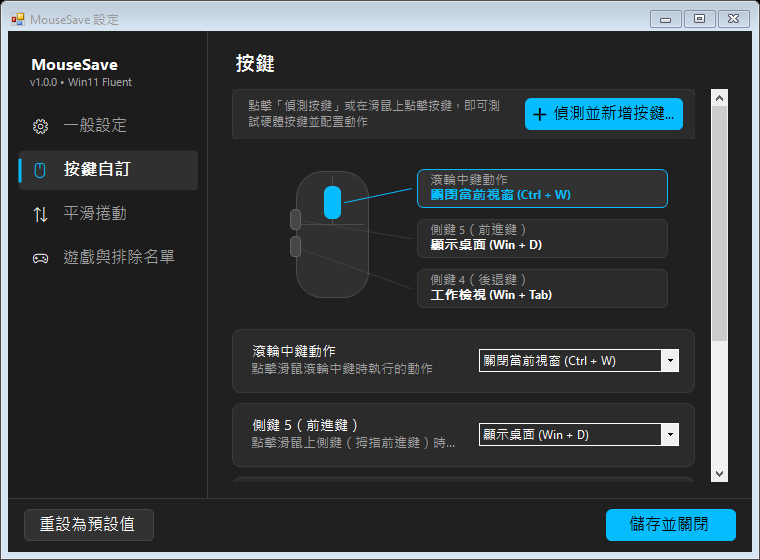
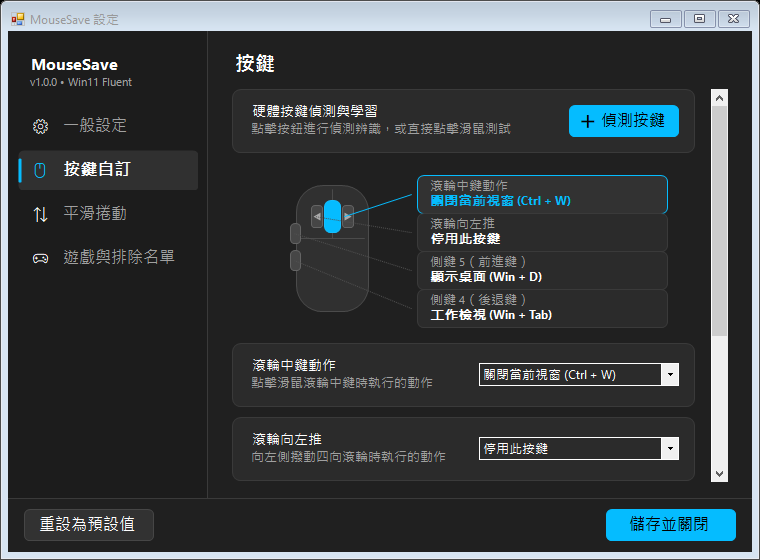
fix(ui): refine button page layout, responsive detection bar and grouped card alignment

diff --git a/windows/src/SettingsForm.cs b/windows/src/SettingsForm.cs
@@ -337,49 +337,28 @@ namespace MouseSave {
         private void BuildButtonsPage(Panel p) {
             int y = 0;
             int cardGap = Theme.Scale(10);
-            int cardW = p.Width - Theme.Scale(16);
+            int cardW = p.ClientSize.Width - Theme.Scale(16);
 
-            // 1. Detection Bar & Hardware Help Card
-            Panel headerCard = new Panel {
-                Location = new Point(0, y),
-                Width = cardW,
-                Height = Theme.Scale(50),
-                Anchor = AnchorStyles.Top | AnchorStyles.Left | AnchorStyles.Right,
-                BackColor = Theme.CardBackground
-            };
-            headerCard.Paint += delegate(object s, PaintEventArgs e) {
-                e.Graphics.SmoothingMode = SmoothingMode.AntiAlias;
-                using (GraphicsPath path = Theme.CreateRoundedRectangle(headerCard.ClientRectangle, Theme.Scale(8)))
-                using (Pen pen = new Pen(Theme.CardBorder, 1f)) {
-                    e.Graphics.DrawPath(pen, path);
-                }
-            };
-
-            Label lblHelp = new Label {
-                Text = Localization.Get("detectTip"),
-                Location = new Point(Theme.Scale(14), Theme.Scale(8)),
-                Size = new Size(cardW - Theme.Scale(190), Theme.Scale(34)),
-                Font = Theme.GetTextFont(8.8f, FontStyle.Regular),
-                ForeColor = Theme.TextSecondary,
-                TextAlign = ContentAlignment.MiddleLeft,
-                Anchor = AnchorStyles.Top | AnchorStyles.Left | AnchorStyles.Right
-            };
-            headerCard.Controls.Add(lblHelp);
-
+            // 1. Detection Bar (Standard FluentCard with responsive RightControl)
             _btnDetectButton = new FluentButton {
                 Text = Localization.Get("detectButton"),
-                Location = new Point(cardW - Theme.Scale(170), Theme.Scale(9)),
-                Size = new Size(Theme.Scale(158), Theme.Scale(32)),
-                Anchor = AnchorStyles.Top | AnchorStyles.Right,
+                Size = new Size(Theme.Scale(110), Theme.Scale(32)),
                 IsAccent = true
             };
             _btnDetectButton.Click += delegate {
                 StartButtonDetection();
             };
-            headerCard.Controls.Add(_btnDetectButton);
 
-            p.Controls.Add(headerCard);
-            y += headerCard.Height + cardGap;
+            FluentCard cardDetect = new FluentCard {
+                Location = new Point(0, y),
+                Width = cardW,
+                Anchor = AnchorStyles.Top | AnchorStyles.Left | AnchorStyles.Right,
+                Title = Localization.Get("detectTitle"),
+                Description = Localization.Get("detectTip"),
+                RightControl = _btnDetectButton
+            };
+            p.Controls.Add(cardDetect);
+            y += cardDetect.Height + cardGap;
 
             // 2. Visualizer diagram
             _mouseVisualizer = new MouseVisualizer {
@@ -393,7 +372,7 @@ namespace MouseSave {
             p.Controls.Add(_mouseVisualizer);
             y += _mouseVisualizer.Height + cardGap;
 
-            // 3. Middle Click
+            // 3. Middle Click (Wheel Group)
             _cboMiddleClick = CreateActionComboBox();
             _cboMiddleClick.SelectedIndexChanged += delegate {
                 _mouseVisualizer.MiddleActionText = _cboMiddleClick.Text;
@@ -409,39 +388,7 @@ namespace MouseSave {
             p.Controls.Add(_cardMiddle);
             y += _cardMiddle.Height + cardGap;
 
-            // 4. Side Button 5
-            _cboButton5 = CreateActionComboBox();
-            _cboButton5.SelectedIndexChanged += delegate {
-                _mouseVisualizer.Button5ActionText = _cboButton5.Text;
-            };
-            _cardBtn5 = new FluentCard {
-                Location = new Point(0, y),
-                Width = cardW,
-                Anchor = AnchorStyles.Top | AnchorStyles.Left | AnchorStyles.Right,
-                Title = Localization.Get("button5Action"),
-                Description = Localization.Get("descButton5"),
-                RightControl = _cboButton5
-            };
-            p.Controls.Add(_cardBtn5);
-            y += _cardBtn5.Height + cardGap;
-
-            // 5. Side Button 4
-            _cboButton4 = CreateActionComboBox();
-            _cboButton4.SelectedIndexChanged += delegate {
-                _mouseVisualizer.Button4ActionText = _cboButton4.Text;
-            };
-            _cardBtn4 = new FluentCard {
-                Location = new Point(0, y),
-                Width = cardW,
-                Anchor = AnchorStyles.Top | AnchorStyles.Left | AnchorStyles.Right,
-                Title = Localization.Get("button4Action"),
-                Description = Localization.Get("descButton4"),
-                RightControl = _cboButton4
-            };
-            p.Controls.Add(_cardBtn4);
-            y += _cardBtn4.Height + cardGap;
-
-            // 6. Tilt Wheel Left
+            // 4. Tilt Wheel Left (Wheel Group)
             _cboTiltLeft = CreateActionComboBox();
             _cboTiltLeft.SelectedIndexChanged += delegate {
                 _mouseVisualizer.TiltLeftActionText = _cboTiltLeft.Text;
@@ -457,7 +404,7 @@ namespace MouseSave {
             p.Controls.Add(_cardTiltLeft);
             y += _cardTiltLeft.Height + cardGap;
 
-            // 7. Tilt Wheel Right
+            // 5. Tilt Wheel Right (Wheel Group)
             _cboTiltRight = CreateActionComboBox();
             _cboTiltRight.SelectedIndexChanged += delegate {
                 _mouseVisualizer.TiltRightActionText = _cboTiltRight.Text;
@@ -472,6 +419,38 @@ namespace MouseSave {
             };
             p.Controls.Add(_cardTiltRight);
             y += _cardTiltRight.Height + cardGap;
+
+            // 6. Side Button 5 (Thumb Group - Forward)
+            _cboButton5 = CreateActionComboBox();
+            _cboButton5.SelectedIndexChanged += delegate {
+                _mouseVisualizer.Button5ActionText = _cboButton5.Text;
+            };
+            _cardBtn5 = new FluentCard {
+                Location = new Point(0, y),
+                Width = cardW,
+                Anchor = AnchorStyles.Top | AnchorStyles.Left | AnchorStyles.Right,
+                Title = Localization.Get("button5Action"),
+                Description = Localization.Get("descButton5"),
+                RightControl = _cboButton5
+            };
+            p.Controls.Add(_cardBtn5);
+            y += _cardBtn5.Height + cardGap;
+
+            // 7. Side Button 4 (Thumb Group - Back)
+            _cboButton4 = CreateActionComboBox();
+            _cboButton4.SelectedIndexChanged += delegate {
+                _mouseVisualizer.Button4ActionText = _cboButton4.Text;
+            };
+            _cardBtn4 = new FluentCard {
+                Location = new Point(0, y),
+                Width = cardW,
+                Anchor = AnchorStyles.Top | AnchorStyles.Left | AnchorStyles.Right,
+                Title = Localization.Get("button4Action"),
+                Description = Localization.Get("descButton4"),
+                RightControl = _cboButton4
+            };
+            p.Controls.Add(_cardBtn4);
+            y += _cardBtn4.Height + cardGap;
         }
 
         private void StartButtonDetection() {
@@ -991,6 +970,7 @@ namespace MouseSave {
 
             _btnReset.Text = Localization.Get("reset");
             _btnSave.Text = Localization.Get("save");
+            if (_btnDetectButton != null) _btnDetectButton.Text = Localization.Get("detectButton");
 
             SwitchPage(_selectedPageIndex);
             PopulateActionCombos();

diff --git a/windows/src/Controls/MouseVisualizer.cs b/windows/src/Controls/MouseVisualizer.cs
@@ -108,9 +108,17 @@ namespace MouseSave.Controls {
             int cx = Theme.Scale(100);
             int cy = Theme.Scale(85);
 
-            // Wheel area: cx-10 to cx+10, cy-50 to cy-15
-            Rectangle wheelRect = new Rectangle(cx - Theme.Scale(10), cy - Theme.Scale(50), Theme.Scale(20), Theme.Scale(36));
+            // Wheel area: cx-8 to cx+8, cy-48 to cy-16
+            Rectangle wheelRect = new Rectangle(cx - Theme.Scale(8), cy - Theme.Scale(48), Theme.Scale(16), Theme.Scale(32));
             if (wheelRect.Contains(pt)) return "middle";
+
+            // Tilt Left area (Left of wheel)
+            Rectangle tiltLeftRect = new Rectangle(cx - Theme.Scale(21), cy - Theme.Scale(43), Theme.Scale(11), Theme.Scale(22));
+            if (tiltLeftRect.Contains(pt)) return "tiltLeft";
+
+            // Tilt Right area (Right of wheel)
+            Rectangle tiltRightRect = new Rectangle(cx + Theme.Scale(10), cy - Theme.Scale(43), Theme.Scale(11), Theme.Scale(22));
+            if (tiltRightRect.Contains(pt)) return "tiltRight";
 
             // Side button 5 (Forward, upper thumb): cx-46 to cx-32, cy-25 to cy-2
             Rectangle btn5Rect = new Rectangle(cx - Theme.Scale(46), cy - Theme.Scale(25), Theme.Scale(18), Theme.Scale(22));
@@ -159,20 +167,52 @@ namespace MouseSave.Controls {
             Rectangle wheelRect = new Rectangle(cx - Theme.Scale(8), cy - Theme.Scale(48), Theme.Scale(16), Theme.Scale(32));
             DrawInteractiveButton(g, wheelRect, "middle", Theme.Scale(6));
 
-            // 2. Side Button 5 (Forward)
+            // 2. Tilt Left & Tilt Right buttons / arrows beside the wheel
+            Rectangle tiltLeftRect = new Rectangle(cx - Theme.Scale(21), cy - Theme.Scale(43), Theme.Scale(11), Theme.Scale(22));
+            DrawInteractiveButton(g, tiltLeftRect, "tiltLeft", Theme.Scale(3));
+            DrawTiltArrow(g, tiltLeftRect, true, _selectedButton == "tiltLeft" || _pulsingButton == "tiltLeft");
+
+            Rectangle tiltRightRect = new Rectangle(cx + Theme.Scale(10), cy - Theme.Scale(43), Theme.Scale(11), Theme.Scale(22));
+            DrawInteractiveButton(g, tiltRightRect, "tiltRight", Theme.Scale(3));
+            DrawTiltArrow(g, tiltRightRect, false, _selectedButton == "tiltRight" || _pulsingButton == "tiltRight");
+
+            // 3. Side Button 5 (Forward)
             Rectangle btn5Rect = new Rectangle(cx - mw / 2 - Theme.Scale(6), cy - Theme.Scale(25), Theme.Scale(10), Theme.Scale(20));
             DrawInteractiveButton(g, btn5Rect, "button5", Theme.Scale(4));
 
-            // 3. Side Button 4 (Back)
+            // 4. Side Button 4 (Back)
             Rectangle btn4Rect = new Rectangle(cx - mw / 2 - Theme.Scale(6), cy + Theme.Scale(2), Theme.Scale(10), Theme.Scale(20));
             DrawInteractiveButton(g, btn4Rect, "button4", Theme.Scale(4));
 
             // Leader lines and info cards on the right side
             int labelLeft = Theme.Scale(185);
 
-            DrawIndicatorCard(g, labelLeft, Theme.Scale(20), "middle", Localization.Get("middleClickAction"), _middleActionText, wheelRect.Right, wheelRect.Top + wheelRect.Height / 2);
-            DrawIndicatorCard(g, labelLeft, Theme.Scale(70), "button5", Localization.Get("button5Action"), _button5ActionText, btn5Rect.Left, btn5Rect.Top + btn5Rect.Height / 2);
-            DrawIndicatorCard(g, labelLeft, Theme.Scale(120), "button4", Localization.Get("button4Action"), _button4ActionText, btn4Rect.Left, btn4Rect.Top + btn4Rect.Height / 2);
+            DrawIndicatorCard(g, labelLeft, Theme.Scale(12), "middle", Localization.Get("middleClickAction"), _middleActionText, wheelRect.Right, wheelRect.Top + wheelRect.Height / 2);
+            DrawIndicatorCard(g, labelLeft, Theme.Scale(50), "tiltLeft", Localization.Get("tiltLeftAction"), _tiltLeftActionText, tiltLeftRect.Left, tiltLeftRect.Top + tiltLeftRect.Height / 2);
+            DrawIndicatorCard(g, labelLeft, Theme.Scale(88), "button5", Localization.Get("button5Action"), _button5ActionText, btn5Rect.Left, btn5Rect.Top + btn5Rect.Height / 2);
+            DrawIndicatorCard(g, labelLeft, Theme.Scale(126), "button4", Localization.Get("button4Action"), _button4ActionText, btn4Rect.Left, btn4Rect.Top + btn4Rect.Height / 2);
+        }
+
+        private void DrawTiltArrow(Graphics g, Rectangle r, bool isLeft, bool active) {
+            Color arrowColor = active ? Color.White : (Theme.IsDark ? Color.FromArgb(170, 170, 170) : Color.FromArgb(100, 100, 100));
+            int midY = r.Y + r.Height / 2;
+            Point[] pts;
+            if (isLeft) {
+                pts = new Point[] {
+                    new Point(r.X + Theme.Scale(2), midY),
+                    new Point(r.Right - Theme.Scale(2), midY - Theme.Scale(4)),
+                    new Point(r.Right - Theme.Scale(2), midY + Theme.Scale(4))
+                };
+            } else {
+                pts = new Point[] {
+                    new Point(r.Right - Theme.Scale(2), midY),
+                    new Point(r.X + Theme.Scale(2), midY - Theme.Scale(4)),
+                    new Point(r.X + Theme.Scale(2), midY + Theme.Scale(4))
+                };
+            }
+            using (SolidBrush b = new SolidBrush(arrowColor)) {
+                g.FillPolygon(b, pts);
+            }
         }
 
         private void DrawInteractiveButton(Graphics g, Rectangle rect, string btnId, int radius) {

diff --git a/windows/src/Localization.cs b/windows/src/Localization.cs
@@ -58,7 +58,8 @@ namespace MouseSave {
             { "statusGameMode", "MouseSave: Game Mode Active ({0})" },
             { "tiltLeftAction", "Tilt Wheel Left" },
             { "tiltRightAction", "Tilt Wheel Right" },
-            { "detectButton", "+ Detect New Button..." },
+            { "detectTitle", "Button Learning & Testing" },
+            { "detectButton", "+ Detect" },
             { "pressAnyButton", "Please press any button or tilt the wheel on your mouse..." },
             { "buttonDetected", "Detected: {0}" },
             { "captureTimeout", "No button detected. Make sure the button sends standard mouse events." },
@@ -71,7 +72,7 @@ namespace MouseSave {
             { "noButtonsConfigured", "No custom button rules yet. Click Detect New Button to add." },
             { "actionSwitchTabLeft", "Previous Tab (Ctrl + Shift + Tab)" },
             { "actionSwitchTabRight", "Next Tab (Ctrl + Tab)" },
-            { "detectTip", "Click 'Detect Button' or press any mouse button to test hardware response." },
+            { "detectTip", "Click button to detect, or press mouse to test." },
             { "descMiddleClick", "Action performed when clicking the mouse scroll wheel" },
             { "descButton4", "Action for lower thumb side button (Back)" },
             { "descButton5", "Action for upper thumb side button (Forward)" },
@@ -133,7 +134,8 @@ namespace MouseSave {
             { "statusGameMode", "MouseSave: 遊戲模式生效中（{0}）" },
             { "tiltLeftAction", "滾輪向左推" },
             { "tiltRightAction", "滾輪向右推" },
-            { "detectButton", "➕ 偵測並新增按鍵..." },
+            { "detectTitle", "硬體按鍵偵測與學習" },
+            { "detectButton", "➕ 偵測按鍵" },
             { "pressAnyButton", "請按下您滑鼠上的任一按鈕或向兩側撥動滾輪..." },
             { "buttonDetected", "已成功辨識：{0}" },
             { "captureTimeout", "未偵測到按鍵，請確認該鍵發送標準滑鼠事件。" },
@@ -146,7 +148,7 @@ namespace MouseSave {
             { "noButtonsConfigured", "尚未新增任何按鍵規則，請點擊上方按鈕開始偵測。" },
             { "actionSwitchTabLeft", "切換至左側分頁 (Ctrl + Shift + Tab)" },
             { "actionSwitchTabRight", "切換至右側分頁 (Ctrl + Tab)" },
-            { "detectTip", "點擊「偵測按鍵」或在滑鼠上點擊按鍵，即可測試硬體按鍵並配置動作" },
+            { "detectTip", "點擊按鈕進行偵測辨識，或直接點擊滑鼠測試" },
             { "descMiddleClick", "點擊滑鼠滾輪中鍵時執行的動作" },
             { "descButton4", "點擊滑鼠下側鍵（拇指後退鍵）時執行的動作" },
             { "descButton5", "點擊滑鼠上側鍵（拇指前進鍵）時執行的動作" },
